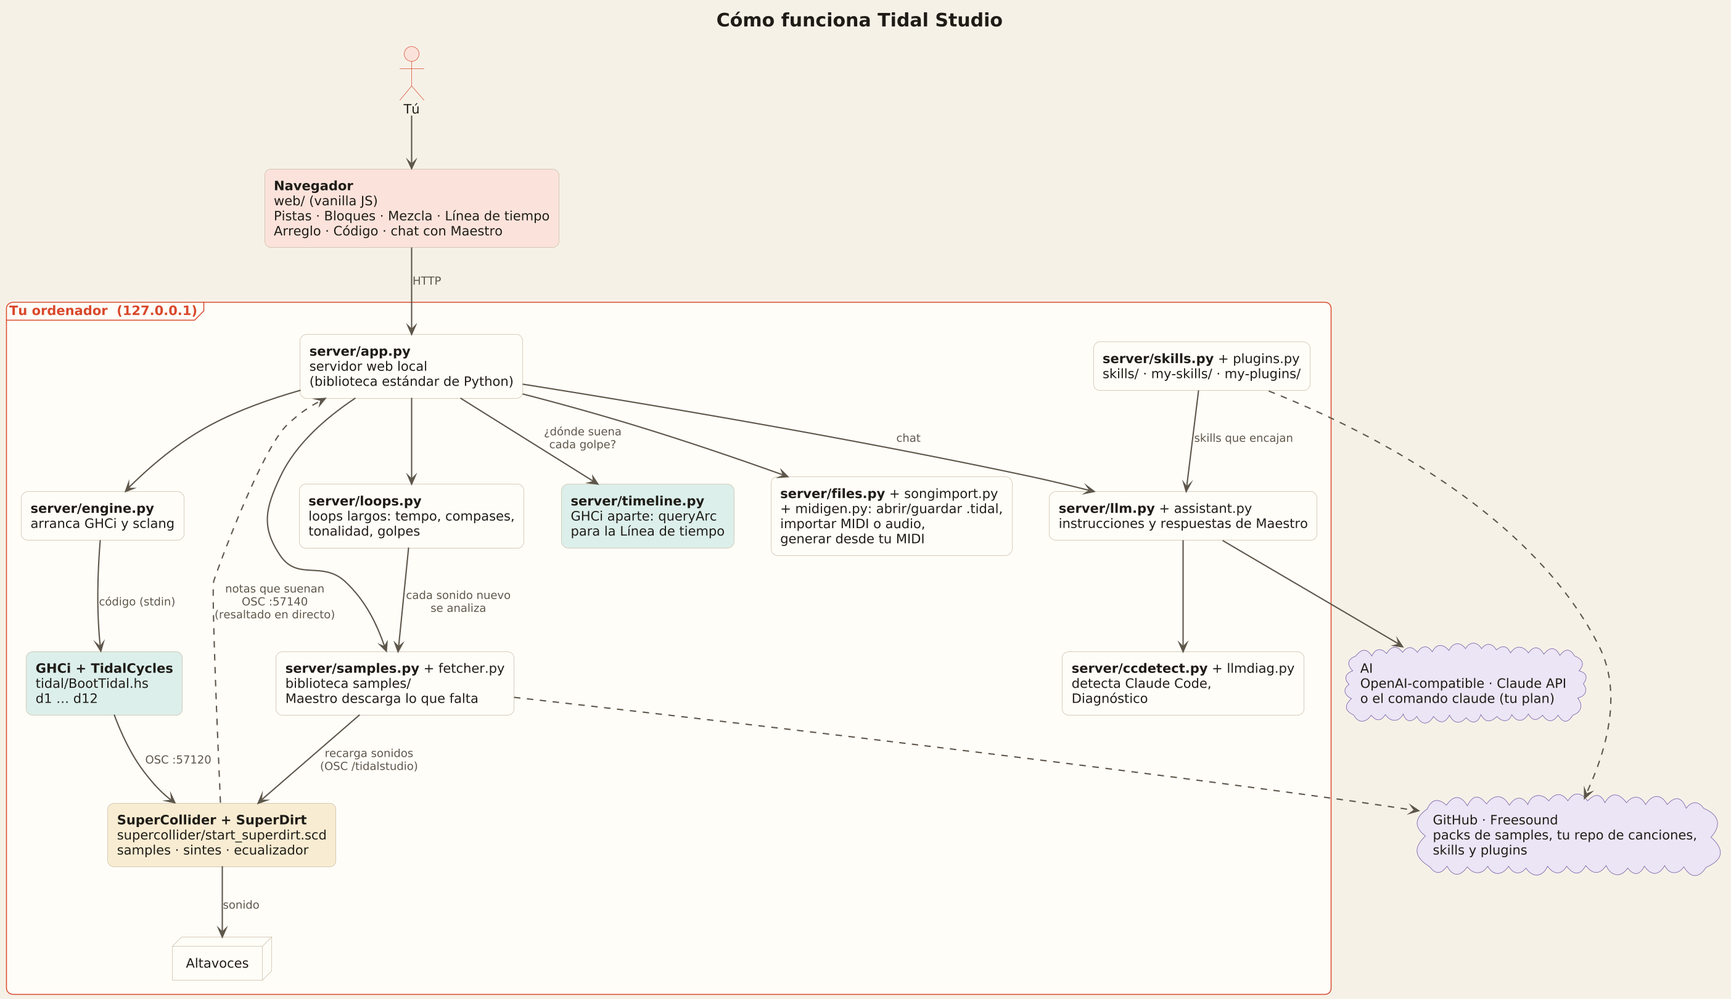
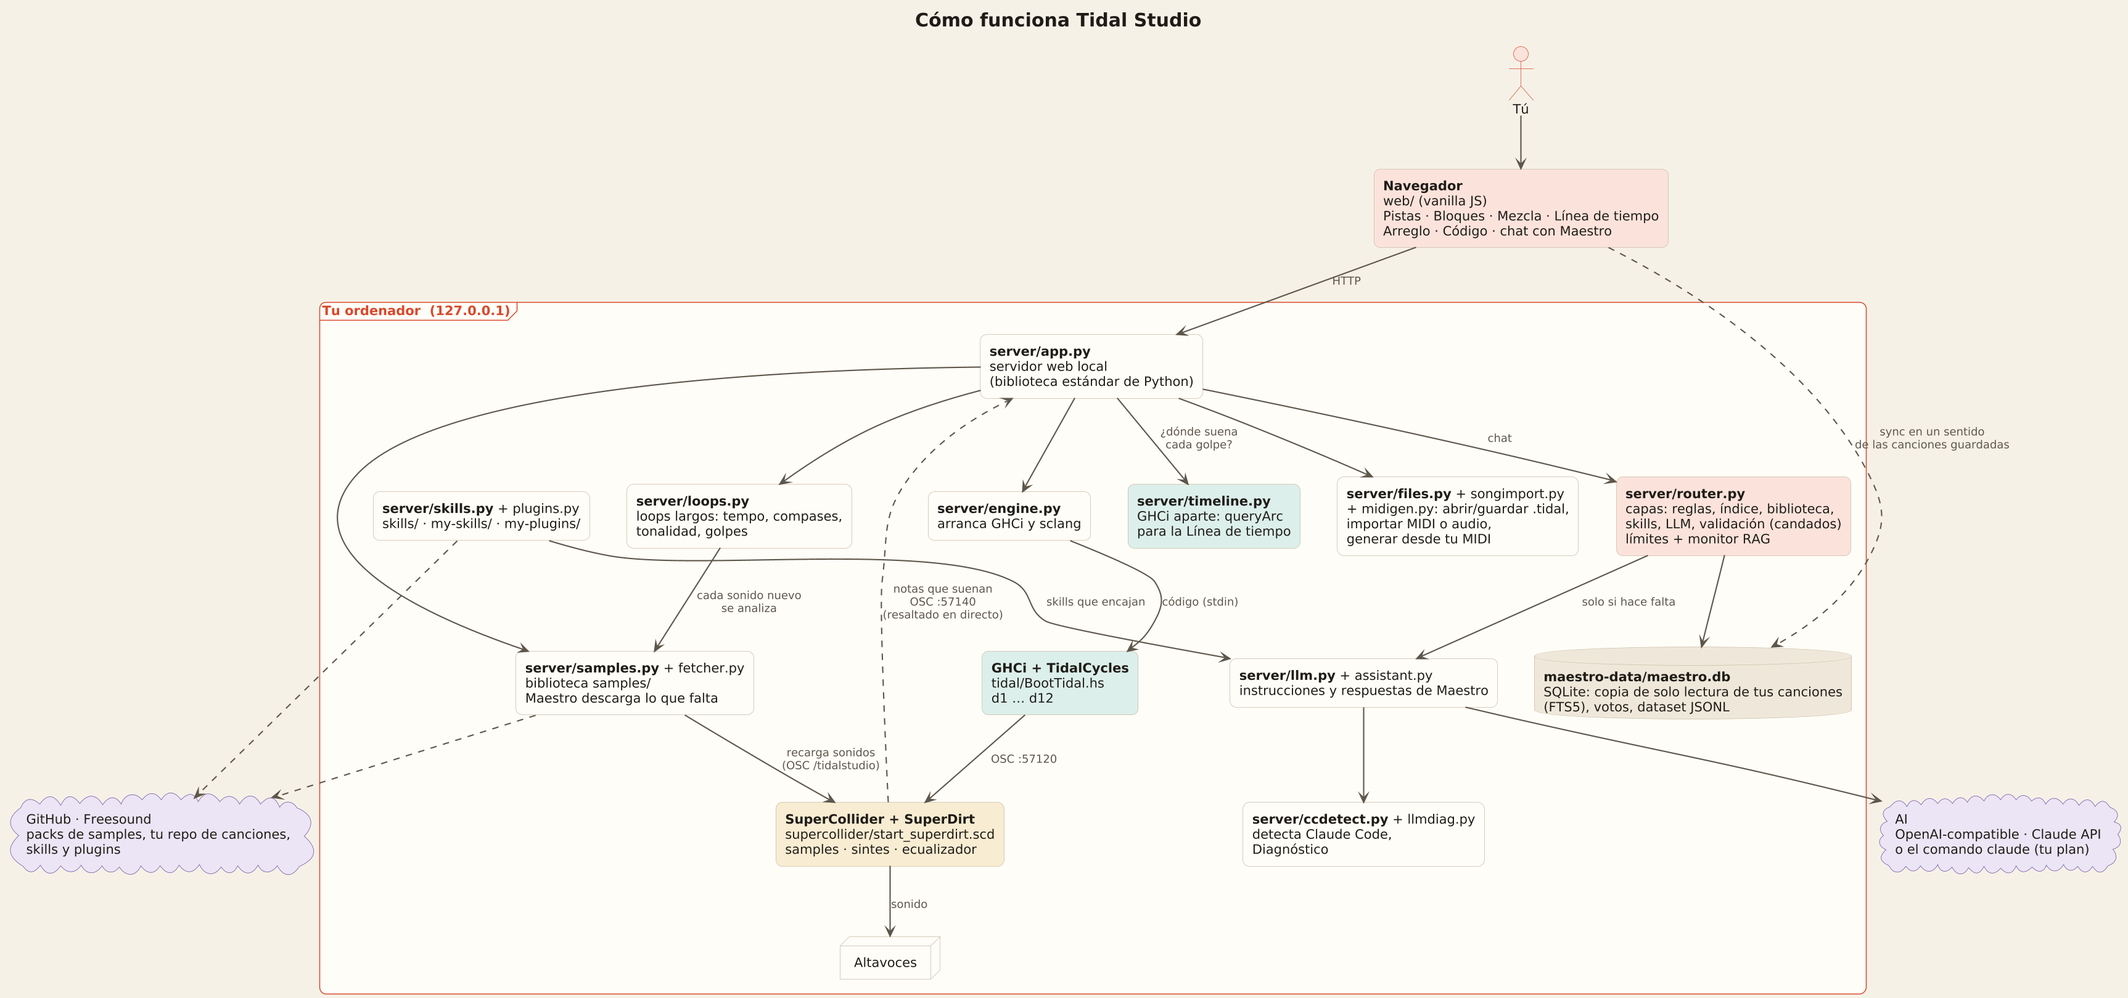
Website: 0.14.0 (Maestro v2: locks, blind A/B, RAG monitor) + screenshots and diagram
Claude-Session: https://claude.ai/code/session_011rzsaS3S5ifzCaTgrQF2mv

diff --git a/index.html b/index.html
@@ -274,11 +274,6 @@ footer { padding: 40px 0; text-align: center; color: var(--ink-3); font-size: 14
       <div><svg class="i" viewBox="0 0 24 24"><path d="M17 2.5l3 3-3 3"/><path d="M4 11.5v-2a4 4 0 014-4h12"/><path d="M7 21.5l-3-3 3-3"/><path d="M20 12.5v2a4 4 0 01-4 4H4"/></svg><h4 data-i="f17h">A library for long loops</h4><p data-i="f17p">Drop downloaded loops, folders or a zip: the studio detects tempo, bars, key and hits, and writes the code so they play at your tempo, with variations instead of repeating.</p></div>
       <div><svg class="i" viewBox="0 0 24 24"><rect x="3" y="4" width="7" height="7" rx="1.5"/><rect x="14" y="4" width="7" height="7" rx="1.5"/><rect x="3" y="14" width="7" height="7" rx="1.5"/><path d="M17.5 14v7M14 17.5h7"/></svg><h4 data-i="f19h">600+ instruments</h4><p data-i="f19p">A harpsichord, a pizzicato double bass, a Steinway, a sitar… Browse by category with real photos, hear each one before downloading, add your own SoundFonts, and pin your favourites to the studio.</p></div>
       <div><svg class="i" viewBox="0 0 24 24"><path d="M6 3h9l4 4v14H6z"/><path d="M15 3v4h4"/><path d="M12 10v7M9 14l3 3 3-3"/></svg><h4 data-i="f18h">Open Tidal files in tabs</h4><p data-i="f18p">Open any .tidal or .hs from your disk or a song from GitHub, each in its own tab, and close them when you are done; Save writes a clean .tidal that plays in any Tidal editor.</p></div>
-      <div><svg class="i" viewBox="0 0 24 24"><rect x="2.5" y="6" width="19" height="12" rx="2"/><path d="M7 6v7M11 6v7M15 6v7M19 6v7" opacity=".6"/><path d="M4 3l3 2-3 2M20 21l-3-2 3-2"/></svg><h4 data-i="f21h">Your keyboard, both ways</h4><p data-i="f21p">Play a track on your piano's own sound, send it the clock so its arpeggiator follows the song, and pick its sound. Plug or unplug it any time: it's found by itself, and the audio comes back with one click.</p></div>
-      <div><svg class="i" viewBox="0 0 24 24"><path d="M4 4v16M8 4v16"/><path d="M12 5l3.5-1 4 15.5-3.5 1z"/><path d="M3 20h18" opacity=".45"/></svg><h4 data-i="f22h">One library for every sound</h4><p data-i="f22p">Built-in samples, 600+ instruments, your uploads, Freesound, packs and loops in the same list, with the same search and the same buttons: listen, download, add.</p></div>
-      <div><svg class="i" viewBox="0 0 24 24"><path d="M4 20L15 9"/><path d="M15 9l2-2" stroke-width="3"/><path d="M17 2.5v2M20.5 6h-2M19.5 3.5l-1.4 1.4"/></svg><h4 data-i="f23h">Swap a sound by selecting it</h4><p data-i="f23p">Select «superpiano» in your code and get similar sounds, the ones you have first, plus a search. Listen to each, then change it just there, in the track or in the whole song.</p></div>
-      <div><svg class="i" viewBox="0 0 24 24"><path d="M4 10v4h3l4 4V6L7 10z"/><path d="M15 9a4 4 0 010 6M17.5 6.5a7.5 7.5 0 010 11"/></svg><h4 data-i="f24h">Plug in, the sound stays</h4><p data-i="f24p">Plugging in a keyboard or headphones no longer leaves the studio silent: held notes are released, and if the outputs change you get «Reconnect audio» with the output you want. Your song keeps playing.</p></div>
-      <div><svg class="i" viewBox="0 0 24 24"><path d="M7 18a4 4 0 01-.5-8 6 6 0 0111.5 1.5A3.5 3.5 0 0117.5 18z"/><path d="M12 15V9M9.5 11.5L12 9l2.5 2.5"/></svg><h4 data-i="f25h">Your songs on GitHub</h4><p data-i="f25p">Upload a whole folder of .tidal files at once (and send the local copies to the Trash if you like), create new songs straight in your repository, and always see where a song lives on GitHub.</p></div>
     </div>
   </div>
 </section>
@@ -361,14 +356,24 @@ n "&lt;c'min7 f'min7&gt;" # s "superpiano"</code></div>
   </div>
 </section>
 
+<section id="maestro-v2" style="padding-top: 20px">
+  <div class="wrap">
+    <div class="kicker" data-i="kv">Maestro v2 · your ear decides</div>
+    <h2 class="sec-title" data-i="tv">Lock what you love. Judge the rest by ear.</h2>
+    <p class="sec-lead" data-i="lv">Lock a whole track or just its rhythm, notes, sound, effects or mix, and the tempo: Maestro can't touch it, you still can. Vote between Maestro's options blind, by ear only; every vote stays on your computer as a dataset you can export. And a live monitor shows which of Maestro's layers answered each request, with its time and tokens; simple questions about your songs get answered without AI.</p>
+    <div class="frame reveal"><div class="bar"><i></i><i></i><i></i><span>localhost:8765</span></div><img id="v2-img" alt="" width="2880" height="1800"></div>
+  </div>
+</section>
+
 <section id="novedades" style="padding-top: 20px">
   <div class="wrap">
     <div class="kicker" data-i="kn">What's new</div>
-    <h2 class="sec-title" data-i="tn">Version 0.13.1 is out.</h2>
+    <h2 class="sec-title" data-i="tn">Version 0.14.0 is out.</h2>
     <p class="sec-lead" data-i="ln">A new version every few days, each with its installers for Mac, Windows and Linux.</p>
     <ul class="vers reveal">
+      <li><b>0.14.0</b><span data-i="v140">Maestro v2, first step: locks per track and part (rhythm, notes, sound, effects, mix) and for the BPM; blind A/B with your votes saved as an exportable dataset; and a live RAG monitor with configurable limits and answers without AI.</span></li>
       <li><b>0.13.1</b><span data-i="v131">Your songs on GitHub: songs opened from GitHub show their GitHub path; upload many .tidal files at once from Settings, optionally moving the local copies to the Trash; and create new songs directly on GitHub.</span></li>
-      <li><b>0.13.0</b><span data-i="v13">MIDI both ways (tracks on your keyboard, clock, start/stop), audio that recovers when you plug things in, one library for every sound, and swap a sound by selecting its name.</span></li>
+      <li><b>0.13.0</b><span data-i="v130">MIDI both ways: your songs play on your keyboard; audio that recovers when you plug things in; one library for every sound; replace a sound by selecting its name.</span></li>
       <li><b>0.12.1</b><span data-i="v121">Fix: saving songs to a GitHub repository you just created empty no longer fails with error 409.</span></li>
       <li><b>0.12.0</b><span data-i="v12">Play your MIDI keyboard: your USB piano sounds with any instrument and what you play becomes Tidal tracks, one per hand, in time with your song; Maestro explains it.</span></li>
       <li><b>0.11.0</b><span data-i="v11">Tidal Studio updates itself: it tells you about new versions, shows what's new, downloads and verifies the installer for your computer and installs it with one click.</span></li>
@@ -393,8 +398,8 @@ n "&lt;c'min7 f'min7&gt;" # s "superpiano"</code></div>
     <div class="step solo reveal" style="margin-bottom:40px">
       <h4 data-i="mach">Mac, Windows and Linux: one installer, everything inside</h4>
       <p data-i="macp">TidalCycles, SuperCollider, the sounds and Python are all in the package, so nothing is downloaded while installing. It opens as a real Mac app, in its own window and with no Terminal. The first time, macOS asks you to allow it in System Settings → Privacy &amp; Security → Open Anyway.</p>
-      <a class="btn primary" href="https://github.com/vsalesa/tidal-studio/releases/download/v0.13.1/TidalStudio-0.13.1-macOS-AppleSilicon.pkg"><svg class="i" viewBox="0 0 24 24"><path d="M12 4v11M7 10l5 5 5-5M5 20h14"/></svg><span data-i="macb">Download for Mac (.pkg)</span></a>
-      <p style="margin-top:14px"><a class="btn ghost" href="https://github.com/vsalesa/tidal-studio/releases/download/v0.13.1/TidalStudio-0.13.1-Windows-x64-Setup.exe"><span data-i="winb">Windows installer (.exe)</span></a> <a class="btn ghost" href="https://github.com/vsalesa/tidal-studio/releases/download/v0.13.1/tidal-studio_0.13.1_amd64.deb"><span data-i="linb">Linux package (.deb)</span></a></p>
+      <a class="btn primary" href="https://github.com/vsalesa/tidal-studio/releases/download/v0.14.0/TidalStudio-0.14.0-macOS-AppleSilicon.pkg"><svg class="i" viewBox="0 0 24 24"><path d="M12 4v11M7 10l5 5 5-5M5 20h14"/></svg><span data-i="macb">Download for Mac (.pkg)</span></a>
+      <p style="margin-top:14px"><a class="btn ghost" href="https://github.com/vsalesa/tidal-studio/releases/download/v0.14.0/TidalStudio-0.14.0-Windows-x64-Setup.exe"><span data-i="winb">Windows installer (.exe)</span></a> <a class="btn ghost" href="https://github.com/vsalesa/tidal-studio/releases/download/v0.14.0/tidal-studio_0.14.0_amd64.deb"><span data-i="linb">Linux package (.deb)</span></a></p>
       <p style="margin-top:10px;font-size:.9em" data-i="maco">Windows and Linux have their own installers too, each opening the studio in its own window. Intel Mac, or prefer the source? Follow the three steps below.</p>
       <p style="margin-top:4px;font-size:.9em"><a href="https://github.com/vsalesa/tidal-studio/releases/latest" data-i="allv">All versions</a></p>
     </div>
@@ -474,16 +479,12 @@ const ES = {
   f20h: "Un plan, paso a paso", f20p: "Pide una canción entera y Maestro primero te enseña un plan, como una lluvia de ideas con un productor. Apruébalo o cámbialo y construye la canción paso a paso, guardando cada uno: si la IA tarda demasiado, no se pierde nada.",
   f16h: "Maestro consigue los sonidos", f16p: "Si a tu canción le falta un sonido que no tienes, como un cencerro de verdad o crujido de vinilo, Maestro busca uno con licencia libre en internet, lo descarga, apunta los créditos y lo hace sonar. Antes de bajar paquetes grandes te pregunta.",
   f18h: "Archivos de Tidal en pestañas", f18p: "Abre cualquier .tidal o .hs de tu disco o una canción de GitHub, cada uno en su pestaña, y ciérralos al terminar; Guardar escribe un .tidal limpio que suena en cualquier editor de Tidal.",
-  f21h: "Tu teclado, en los dos sentidos", f21p: "Toca una pista con el sonido de tu propio piano, mándale el reloj para que su arpegiador siga la canción y elige su sonido. Enchúfalo o quítalo cuando quieras: se detecta solo y el audio vuelve con un clic.",
-  f22h: "Una sola librería para todo", f22p: "Samples incluidos, más de 600 instrumentos, lo que subes, Freesound, packs y loops en la misma lista, con el mismo buscador y los mismos botones: escuchar, descargar, añadir.",
-  f23h: "Cambia un sonido seleccionándolo", f23p: "Selecciona «superpiano» en tu código y te propone sonidos parecidos, primero los que ya tienes, y un buscador. Escucha cada uno y cámbialo solo ahí, en la pista o en toda la canción.",
-  f25h: "Tus canciones en GitHub", f25p: "Sube de una vez una carpeta entera de .tidal (y manda las copias locales a la Papelera si quieres), crea las canciones nuevas directamente en tu repositorio y ve siempre dónde vive cada canción en GitHub.",
-  f24h: "Enchufa y el sonido sigue", f24p: "Enchufar un teclado o unos auriculares ya no deja el estudio mudo: se sueltan las notas pisadas y, si cambian las salidas, aparece «Reconectar audio» con la salida que quieras. Tu canción sigue sonando.",
+  v140: "Maestro v2, primer paso: candados por pista y por parte (ritmo, notas, sonido, efectos, mezcla) y para el BPM; A/B a ciegas con tus votos guardados como dataset exportable; y un monitor RAG en vivo con límites configurables y respuestas sin IA.",
   v131: "Tus canciones en GitHub: las canciones abiertas desde GitHub enseñan su ruta en GitHub; sube muchos .tidal a la vez desde Ajustes, con la opción de mandar las copias locales a la Papelera; y crea las canciones nuevas directamente en GitHub.",
-  v13: "MIDI de ida y vuelta (pistas en tu teclado, reloj, start/stop), audio que se recupera al enchufar cosas, una sola librería para todos los sonidos y cambiar un sonido seleccionando su nombre.",
+  v130: "MIDI de ida y vuelta: tus canciones suenan en tu teclado; el audio se recupera al enchufar cosas; una sola librería para todos los sonidos; cambia un sonido seleccionando su nombre.",
   v121: "Arreglo: guardar canciones en un repositorio de GitHub recién creado vacío ya no falla con el error 409.",
   v12: "Toca tu teclado MIDI: tu piano USB suena con cualquier instrumento y lo que tocas se convierte en pistas de Tidal, una por mano, a compás con tu canción; Maestro te lo explica.",
-  nav5: "Novedades", kn: "Novedades", tn: "Ya está aquí la versión 0.13.1.", ln: "Una versión nueva cada pocos días, cada una con sus instaladores para Mac, Windows y Linux.",
+  nav5: "Novedades", kn: "Novedades", tn: "Ya está aquí la versión 0.14.0.", ln: "Una versión nueva cada pocos días, cada una con sus instaladores para Mac, Windows y Linux.",
   v11: "Tidal Studio se actualiza solo: te avisa de las versiones nuevas, te enseña las novedades, descarga y comprueba el instalador de tu ordenador y lo instala con un clic.",
   v10: "En las peticiones grandes Maestro te enseña un plan y lo construye paso a paso, así un timeout ya no pierde trabajo, con un botón Cancelar; genera una canción nueva desde tu MIDI en 11 estilos; varias canciones abiertas en pestañas, desde tu disco o GitHub; un baterista real en nueve cursos; mejor importación de audio con MSST; y Maestro ve los sonidos que acabas de descargar.",
   v91: "Maestro carga en cada mensaje mc-tidal-studio, la ruta de skills de tu plugin de composición hecha para esta app.",
@@ -503,6 +504,8 @@ const ES = {
   ki: "Importar canción", ti: "Empieza con una canción que te encanta. Termina con una tuya.",
   kk: "Tu teclado MIDI", tk: "Toca tu piano. Míralo convertirse en código.",
   lk: "Enchufa tu teclado USB y suena al momento con cualquier instrumento del estudio. Graba una frase, a compás con tu canción si está sonando, y se convierte en pistas de Tidal, una por mano, con la tonalidad y los acordes; el código se escribe mientras tocas. Luego Maestro te explica lo que has tocado y te propone cómo seguir.",
+  kv: "Maestro v2 · decide tu oído", tv: "Bloquea lo que te encanta. Juzga el resto de oído.",
+  lv: "Bloquea una pista entera o solo su ritmo, notas, sonido, efectos o mezcla, y el tempo: Maestro no puede tocarlo, tú sí. Vota entre las opciones de Maestro a ciegas, solo con el oído; cada voto se queda en tu ordenador como un dataset que puedes exportar. Y un monitor en vivo enseña qué capa de Maestro respondió cada petición, con su tiempo y sus tokens; las preguntas sencillas sobre tus canciones se responden sin IA.",
   kg: "Genera desde tu MIDI", tg: "Tu melodía, en merengue. O en bossa, o en house.",
   lg: "Sube un MIDI tuyo, elige uno de once estilos y qué te quedas: melodía, acordes, bajo, batería o tempo. El estudio escribe el resto en ese estilo sobre tus acordes, sin IA: la batería del curso, un bajo y un acompañamiento con ritmos medidos en canciones reales, y una melodía nueva de pregunta y respuesta si no te quedas la tuya. Cada pista dice de dónde sale, y Maestro puede convertirla en una canción entera.",
   li: "Suelta un MIDI, o un mp3 o wav (sus instrumentos se separan con MSST o Demucs), y se convierte en pistas de Tidal y en su receta: tempo, tonalidad, acordes, estructura y groove. Luego Maestro te ayuda a escribir algo nuevo inspirado en ella, conservando lo que funciona y cambiando el resto. Todo se queda en tu ordenador.",
@@ -696,6 +699,7 @@ function applyLang() {
 langBtn.onclick = () => { lang = lang === "es" ? "en" : "es"; try { localStorage.setItem("ts-site-lang", lang); } catch {} applyLang(); };
 applyLang();
 { const mi = document.getElementById("midi-img"); mi.src = shotPath(lang === "es" ? "midi-traducido" : "midi-result"); mi.alt = lang === "es" ? "Lo que tocas en tu piano, traducido a pistas de Tidal" : "What you play on your piano, translated into Tidal tracks"; }
+{ const vi = document.getElementById("v2-img"); vi.src = shotPath(lang === "es" ? "monitor-rag" : "rag-monitor"); vi.alt = lang === "es" ? "Monitor RAG: el recorrido de una petición por las capas de Maestro" : "RAG monitor: the path of a request through Maestro's layers"; }
 { const gi = document.getElementById("gen-img"); gi.src = shotPath(lang === "es" ? "midi-generar-resultado" : "midi-generate-result"); gi.alt = lang === "es" ? "Tu MIDI en bossa nova: pistas de tu MIDI, del estilo y nuevas" : "Your MIDI as bossa nova: tracks from your MIDI, the style and new ones"; }
 { const ii = document.getElementById("import-img"); ii.src = shotPath(lang === "es" ? "importar-resultado" : "import-result"); ii.alt = lang === "es" ? "Canción importada: receta y pistas de Tidal" : "Imported song: recipe and Tidal tracks"; }
 { const ci = document.getElementById("course-img"); ci.src = shotPath(lang === "es" ? "curso-baterista-real" : "course-real-drummer"); ci.alt = lang === "es" ? "Curso de merengue: escucha a un baterista real tocando el estilo" : "Merengue course: hear a real drummer play the style"; }

diff --git a/screenshot-tool/v014.js b/screenshot-tool/v014.js
@@ -1,0 +1,75 @@
+// Capturas de 0.14 (Maestro v2): candados, A/B a ciegas, Escucha (línea base y dataset) y monitor RAG.
+//   OUT=../screenshots node v014.js          (inglés)     LANGS=es OUT=../screenshots node v014.js
+// Necesita el estudio con un LLM de pruebas compatible con OpenAI (respuestas fijas con opciones para d1..d4):
+// el monitor enseña el recorrido real de cada petición por las capas del servidor.
+const { chromium, open, shot, sunday, T } = require('./lib');
+const BASE = process.env.BASE || 'http://127.0.0.1:8765';
+
+function locked(lang) {
+  const st = sunday(lang, { bpmLock: true, selected: 'd2' });
+  st.tracks[0].lock = { all: true };
+  st.tracks[1].lock = { ritmo: true, sonido: true }; st.tracks[1].lockOpen = true;
+  return st;
+}
+async function seedIndex(lang) {
+  const songs = [sunday(lang), Object.assign(sunday(lang), { projectId: 'p-night', name: 'Night drive', bpm: 118 })];
+  for (const s of songs) {
+    await fetch(BASE + '/api/songs/sync', { method: 'POST', headers: { 'Content-Type': 'application/json' },
+      body: JSON.stringify({ song: { id: s.projectId, name: s.name, bpm: s.bpm, style: s.style, tracks: s.tracks } }) });
+  }
+}
+async function ask(page, text) {
+  const n = await page.locator('#chat .msg').count();
+  await page.fill('#chat-input', text); await page.keyboard.press('Enter');
+  await page.waitForFunction((n) => document.querySelectorAll('#chat .msg').length > n + 1, n, { timeout: 20000 });
+  await page.waitForTimeout(1200);
+}
+
+const scenes = {
+  async locks(b, lang) {
+    const { page } = await open(b, { lang, state: locked(lang) });
+    await shot(page, T(lang, 'candados', 'locks'), lang);
+  },
+  async blind(b, lang) {
+    const { page } = await open(b, { lang, state: locked(lang) });
+    await ask(page, T(lang, 'dame opciones para el bajo', 'give me options for the bass'));
+    await shot(page, T(lang, 'opciones-bloqueadas', 'options-locked'), lang);
+    await page.click('[data-va="blind"]'); await page.waitForTimeout(400);
+    await page.locator('[data-va="play"]').first().click(); await page.waitForTimeout(300);
+    await page.fill('.va-why input', T(lang, 'tiene más groove', 'more groove'));
+    await shot(page, T(lang, 'ab-ciegas', 'blind-ab'), lang);
+    await page.locator('[data-va="vote"]').first().click(); await page.waitForTimeout(700);
+    await shot(page, T(lang, 'ab-ciegas-resultado', 'blind-ab-result'), lang);
+  },
+  async monitor(b, lang) {
+    await seedIndex(lang);
+    const { page } = await open(b, { lang, state: locked(lang) });
+    await ask(page, T(lang, '¿qué canciones mías usan supersaw?', 'which of my songs use supersaw?'));
+    await ask(page, T(lang, 'dame opciones para el bajo', 'give me options for the bass'));
+    await page.click('#btn-monitor'); await page.waitForTimeout(1500);
+    await page.locator('.mn-node[data-layer="llm"]').click(); await page.waitForTimeout(400);
+    await shot(page, T(lang, 'monitor-rag', 'rag-monitor'), lang);
+    await page.locator('.mn-req').nth(1).click(); await page.waitForTimeout(300);
+    await page.locator('.mn-node[data-layer="rules"]').click(); await page.waitForTimeout(300);
+    await page.click('.mn-limits-box summary'); await page.waitForTimeout(300);
+    await page.evaluate(() => document.querySelector('.mn-limits-box').scrollIntoView({ block: 'end' }));
+    await shot(page, T(lang, 'monitor-limites', 'rag-limits'), lang);
+  },
+  async listen(b, lang) {
+    const { page } = await open(b, { lang, state: sunday(lang) });
+    await page.click('#btn-listen'); await page.waitForTimeout(800);
+    await page.fill('input[name=missing]', T(lang, 'las palmas suenan rígidas', 'the claps feel stiff'));
+    await page.click('#ls-rate button[type=submit]'); await page.waitForTimeout(900);
+    await shot(page, T(lang, 'escucha', 'listen'), lang);
+  },
+};
+
+(async () => {
+  const b = await chromium.launch();
+  const langs = (process.env.LANGS || 'en').split(',');
+  const names = process.argv.slice(2).length ? process.argv.slice(2) : Object.keys(scenes);
+  for (const n of names) for (const l of langs) {
+    try { await scenes[n](b, l); } catch (e) { console.error('FAIL', n, l, e.message.split('\n')[0]); }
+  }
+  await b.close();
+})();

diff --git a/screenshot-tool/README.md b/screenshot-tool/README.md
@@ -28,6 +28,7 @@ OUT=../screenshots node scenes.js studio mixer     # just some scenes
   to `~/.local/bin/claude`, `provider: "claudecode"` in its `config.json`, then `BASE=http://127.0.0.1:<port> node scenes.js settings`.
 - Paths of the temporary folders are replaced with `~` before each shot.
 - `tabs.js` checks the tabs (open from disk, switch, close with unsaved changes, reload) and takes `tabs*.png`: put two `.tidal` files in `$SONGS`, then `OUT=../screenshots node tabs.js` (`L=es` for Spanish, then rename to `pestanas*.png`).
+- `v014.js` takes the 0.14 shots (locks, blind A/B, Listening, RAG monitor): it needs an OpenAI-compatible test LLM that answers with fixed options for d1..d4 (`LANGS=es` for Spanish).
 - `ghimport.js` takes `github-*.png` (remote path, Settings, importer, create new songs on GitHub): start `fake-github.py 8799`, set `github.api_url` to `http://127.0.0.1:8799` in `config.json`, save a song called `night-drive` and put a few `.tidal` files in `$SONGS` (`L=es` for Spanish).
 - The Timeline, long loops, files, import, web samples and Maestro options screenshots were taken with their own
   scenes when those features shipped and are not in this script yet.
